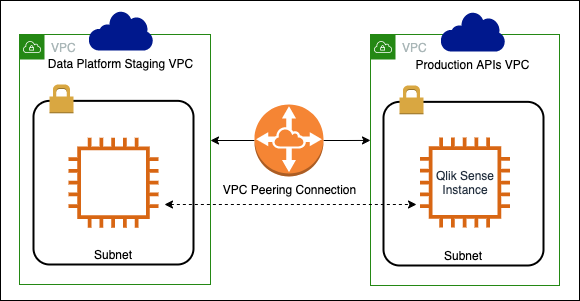
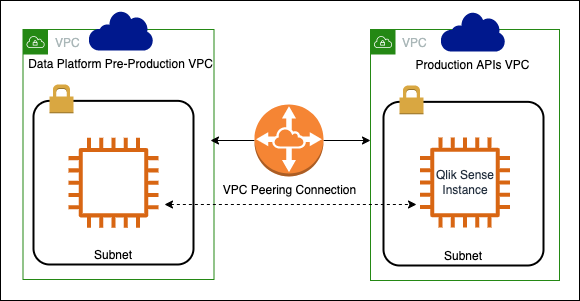
correct AWS accounts in vpc peering connection documentation

diff --git a/docs/docs/vpc-peering-connection-dataplatform-and-production-apis-account.md b/docs/docs/vpc-peering-connection-dataplatform-and-production-apis-account.md
@@ -7,6 +7,6 @@ tags: [playbook]
 
 ![VPC Peering Connection](./images/vpc-peering-connection.png)
 
-The VPC Peering connection is set up between the Data Platform Staging account VPC and the Production APIs account VPC. This will allow traffic to flow to and from these AWS accounts.
+The VPC Peering connection is set up between the Data Platform Pre-Production account VPC and the Production APIs account VPC. This will allow traffic to flow to and from these AWS accounts.
 
 This enables Data and Insights Analysts to fulfil their analysis and reporting duties on data from the Data Platform, such as housing and parking data, using the Qlik Sense Business Intelligence tool from the Production APIs AWS account.
